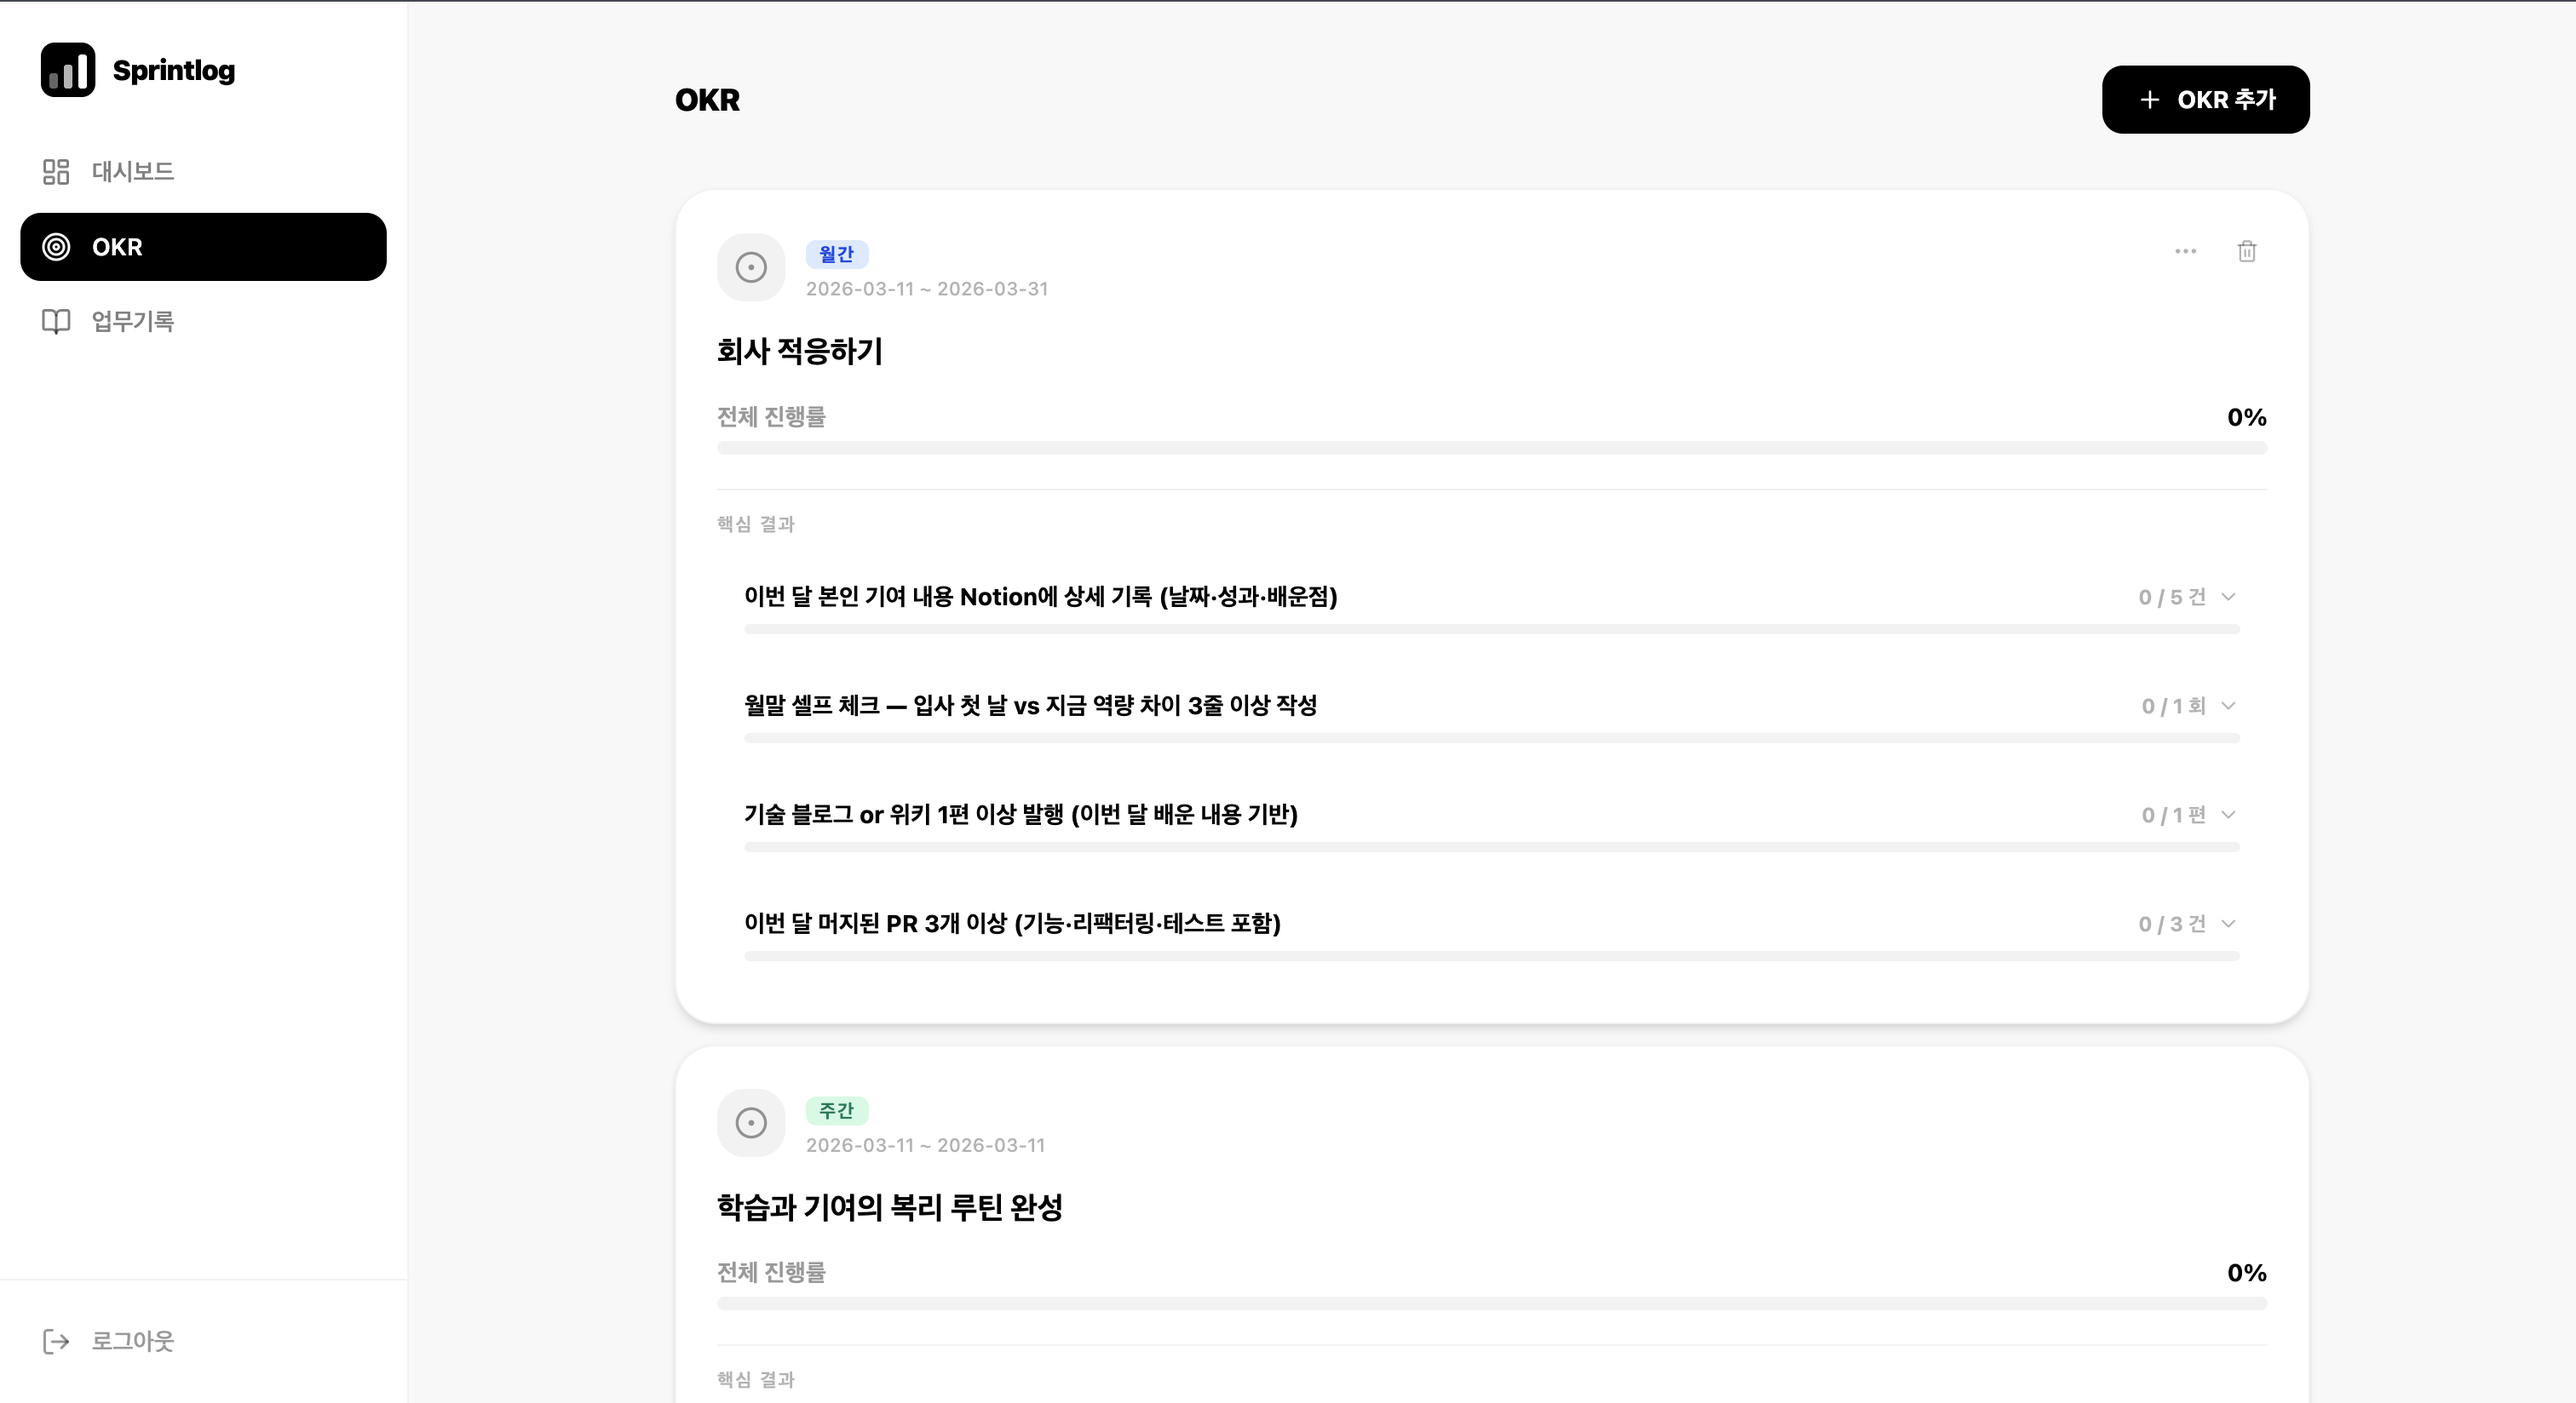
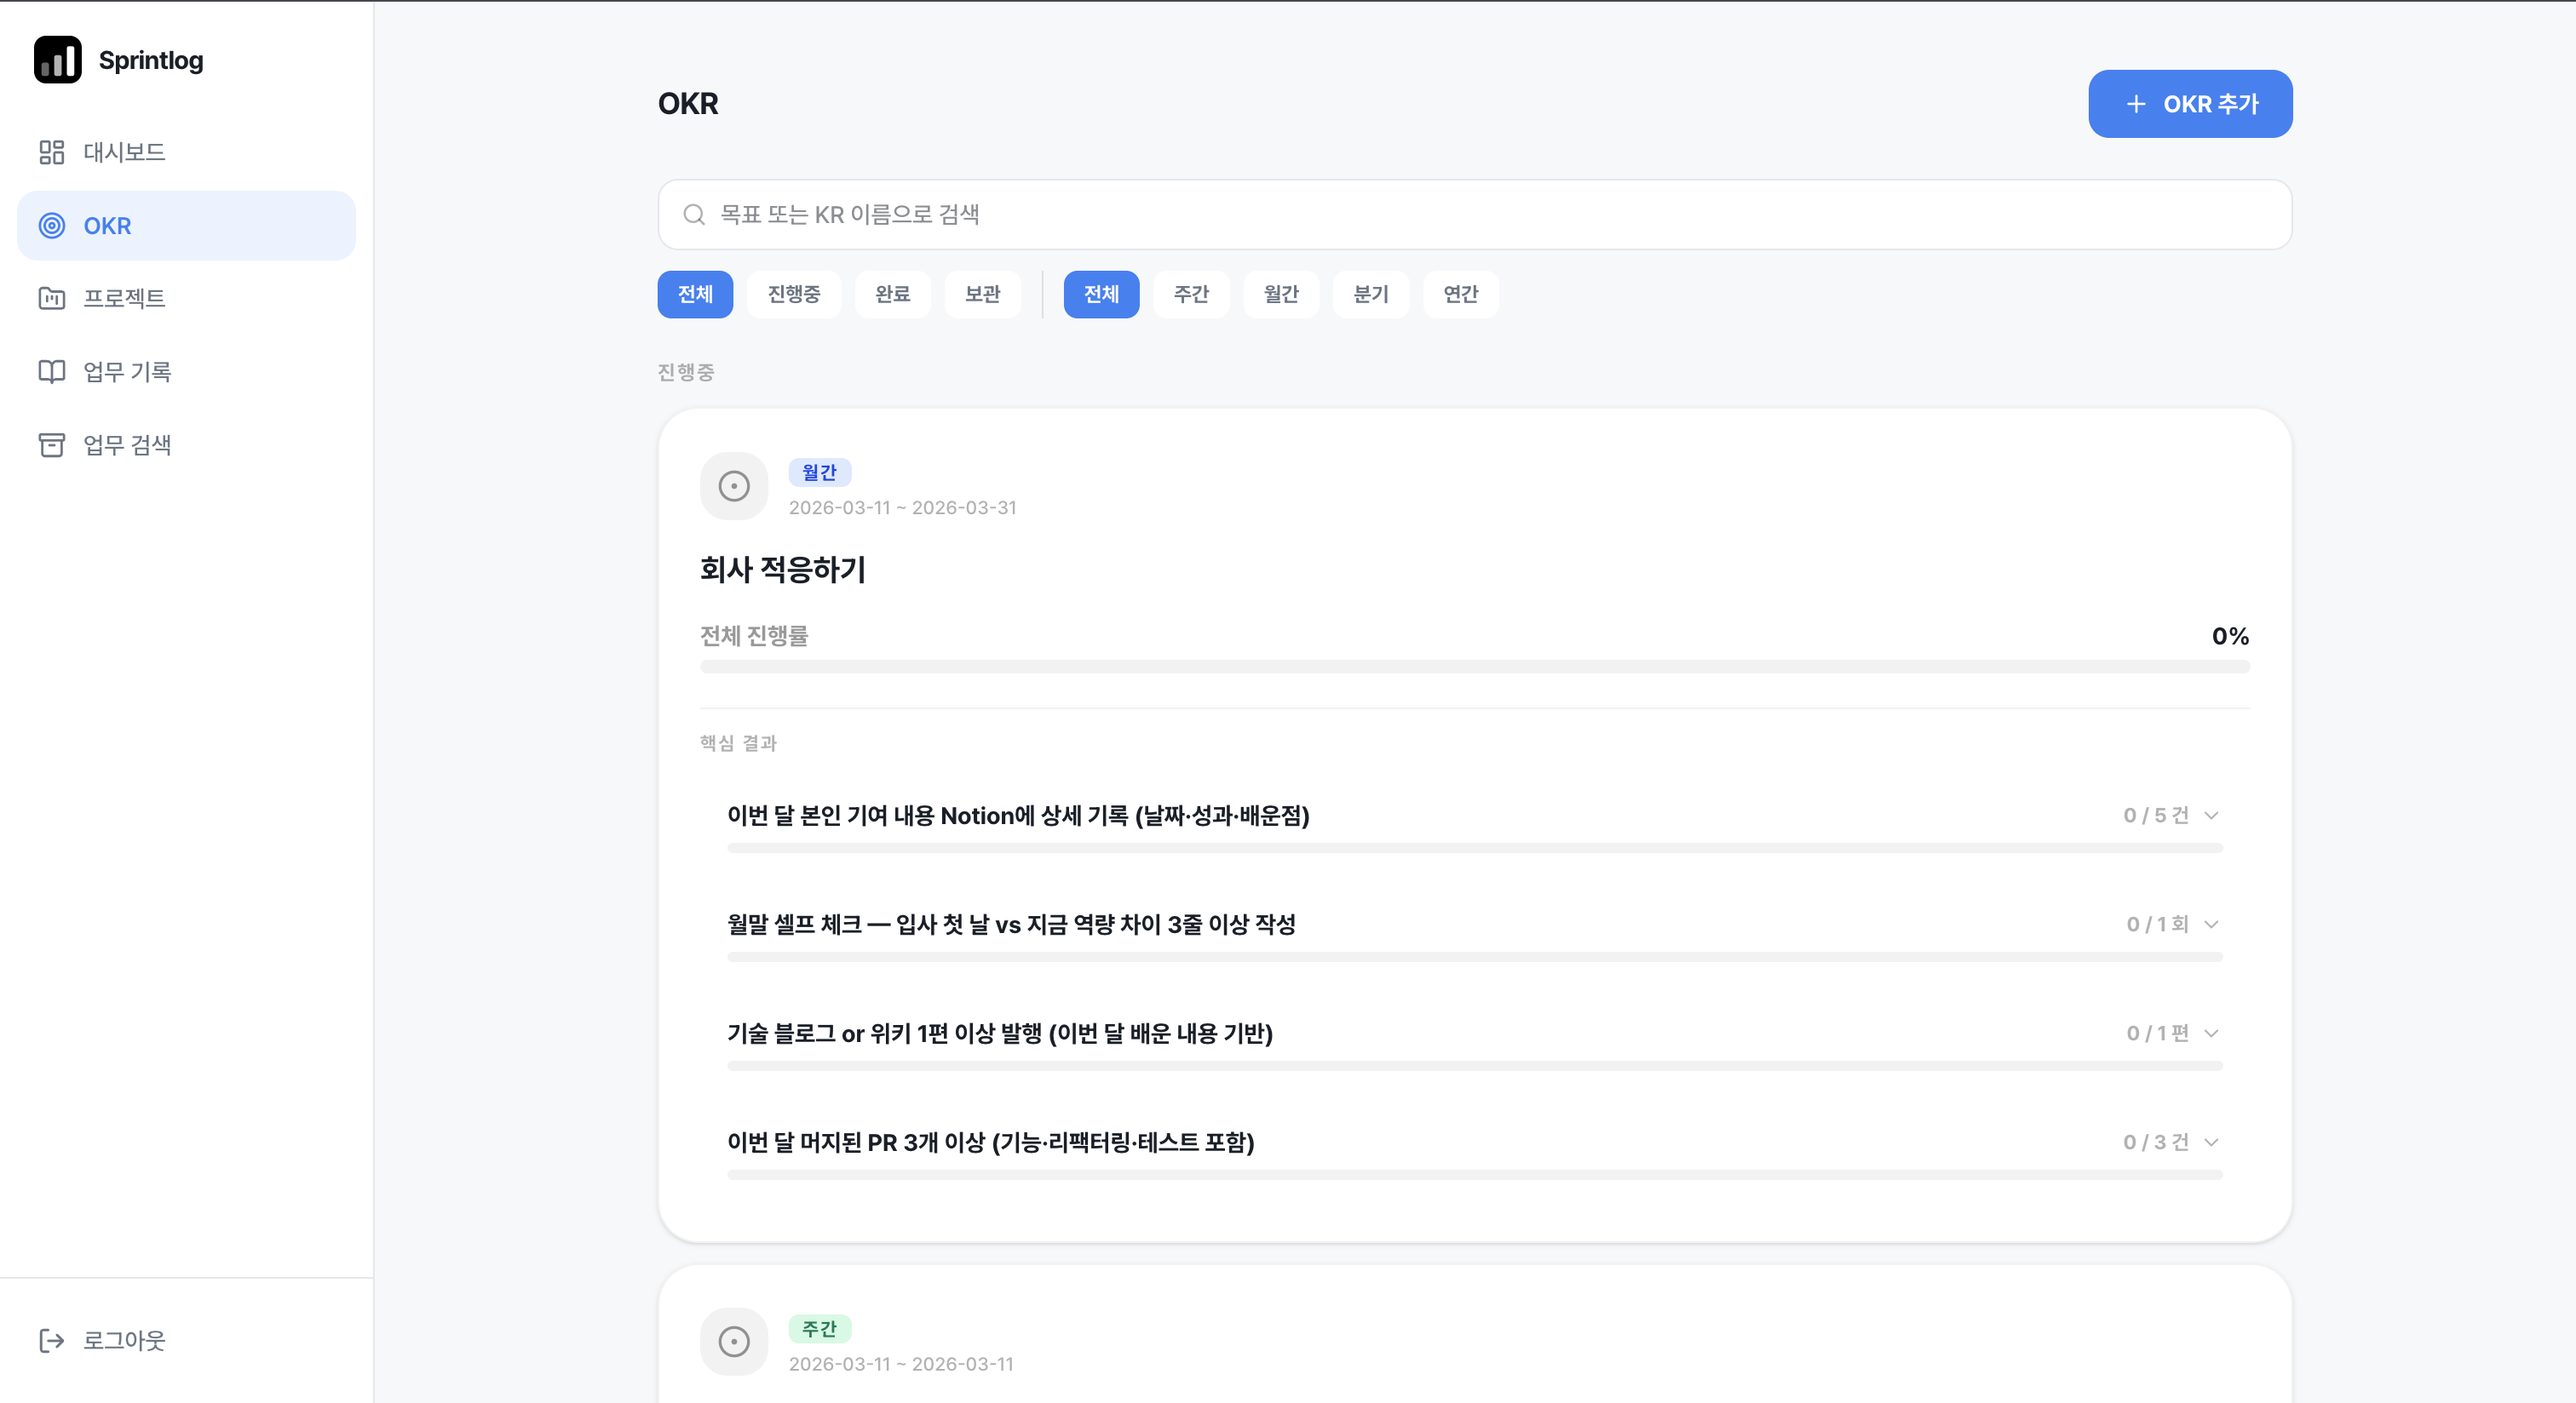
fix: 리드미 이미지 변경

diff --git a/README.md b/README.md
@@ -6,9 +6,11 @@ OKR 관리와 일일 업무기록을 한 곳에서 관리하는 서비스
 
 ### 대시보드
 
-- 총 업무기록 수, 완료된 KR, OKR 평균 진행률 통계 카드
-- 오늘/내일 할 일 목록 (오전 → 오후 순 정렬)
-- 기간별(스프린트·월간·분기·연간) OKR 통계 — 도넛 차트 + KR 진행 바
+- OKR 진행률, 완료된 KR, 할 일 완료율, 마감 임박 OKR 통계 카드
+- 마감 임박 OKR D-day 배지 + 도넛 차트 & KR 진행 바
+- 최근 이슈/장애 목록 (클릭 시 해당 업무일지 오픈)
+- 자주 함께 일한 동료 집계
+- 프로젝트별 업무일지 활동 바 차트
 - 오늘 업무기록 빠른 작성 버튼
 
 ### OKR 관리
@@ -17,19 +19,34 @@ OKR 관리와 일일 업무기록을 한 곳에서 관리하는 서비스
 - OKR당 핵심 결과(KR) 다수 등록 (목표값·현재값·단위)
 - KR 클릭 시 연결된 업무일지 목록 확장 표시
 - KR `current_value`는 연결된 업무일지 수로 자동 동기화
+- 상태 필터 (진행중·완료·보관) + 이름 검색
 
-### 업무기록
+### 프로젝트 관리
 
-- 월간 캘린더 뷰 — 기록된 날짜는 검정, 오늘은 링 표시
+- 프로젝트 생성/수정/삭제, 색상·상태·기간 설정
+- 상태(진행중·보류·완료·보관) 필터 + 이름 검색
+- 프로젝트 카드에서 연결된 업무일지 목록 확장 표시
+
+### 업무기록 캘린더
+
+- 월간 캘린더 뷰 — 기록된 날짜는 파란색, 오늘은 링 표시
 - 날짜 클릭으로 기록 작성/수정 모달 오픈
-- OKR 페이지에서 업무일지 클릭 시 해당 날짜 모달 자동 오픈
+- 업무일지 삭제 기능
 
 ### 업무일지 모달
 
-- **투두 리스트**: 오전/오후 구분, 완료 체크, 순서 관리
-- **상세 기록**: 한 일·이슈·막힌 것·설계·배운점·내일 할일·수치 변화·피드백·개선 포인트 (9개 필드)
-- **OKR 연결**: 업무일지와 KR 다대다 연결
+- **투두 리스트**: 오전/오후 구분, 완료 체크
+- **상세 기록**: 한 일·이슈·막힌 것·설계·배운점·내일 할일·수치 변화·피드백·개선 포인트 (9개 필드) + 한줄 요약 + 같이 일한 동료 태그
+- **OKR 연결**: 업무일지와 KR 다대다 연결 (검색 지원)
+- **프로젝트 연결**: 업무일지와 프로젝트 다대다 연결 (검색 지원)
 - 기록 삭제 기능 (헤더 휴지통 버튼 → 인라인 확인)
+
+### 업무 검색 (아카이브)
+
+- 전체 업무일지를 날짜·프로젝트·OKR·내용 필드 기준으로 검색/필터링
+- 검색 결과 카드 클릭 시 해당 업무일지 모달 오픈
+
+---
 
 ## 화면 미리보기
 
@@ -43,15 +60,35 @@ OKR 관리와 일일 업무기록을 한 곳에서 관리하는 서비스
 
 ### OKR 모달
 
-![OKR 모달](img/OKR_모달.png)
+![OKR 모달](img/OKR모달.png)
+
+### 프로젝트 모달
+
+![프로젝트 모달](img/프로젝트모달.png)
 
 ### 업무기록 캘린더
 
-![업무기록 캘린더](img/업무일지.png)
+![업무기록 캘린더](img/업무기록.png)
 
-### 업무일지 모달
+### 업무일지 모달 — 할 일
 
-![업무일지 모달](img/업무일지_모달.png)
+![업무일지 모달 - 할 일](img/업무일지모달-할일.png)
+
+### 업무일지 모달 — 상세 기록
+
+![업무일지 모달 - 상세 기록](img/업무일지모달-상세기록.png)
+
+### 업무일지 모달 — OKR 연결
+
+![업무일지 모달 - OKR 연결](img/업무일지모달-OKR연결.png)
+
+### 업무일지 모달 — 프로젝트 연결
+
+![업무일지 모달 - 프로젝트 연결](img/업무일지모달-프로젝트연결.png)
+
+### 업무 검색
+
+![업무 검색](img/업무검색.png)
 
 ---
 
@@ -62,6 +99,7 @@ OKR 관리와 일일 업무기록을 한 곳에서 관리하는 서비스
 | UI          | React 19, TypeScript, Tailwind CSS v4 |
 | 라우팅      | React Router v7                       |
 | 백엔드/인증 | Supabase (RLS, Auth)                  |
+| 애니메이션  | Motion (motion/react)                 |
 | 아이콘      | Lucide React                          |
 | 날짜        | date-fns                              |
 | 빌드        | Vite 7                                |
@@ -72,24 +110,29 @@ OKR 관리와 일일 업무기록을 한 곳에서 관리하는 서비스
 ```
 src/
   components/
-    Layout.tsx          # 사이드바, 모바일 헤더/하단 내비게이션
+    Layout.tsx            # 사이드바, 모바일 헤더/하단 내비게이션, 공통 컴포넌트
   features/
+    archive/
+      ArchivePage.tsx     # 업무 검색 (전체 업무일지 필터/검색)
     auth/
-      AuthPage.tsx      # 로그인 / 회원가입
+      AuthPage.tsx        # 로그인 / 회원가입
     dashboard/
-      DashboardPage.tsx # 대시보드 (통계, 투두, OKR 차트)
+      DashboardPage.tsx   # 대시보드 (통계, OKR 차트, 이슈, 동료, 프로젝트 활동)
     logs/
-      LogsPage.tsx      # 월간 캘린더 뷰
-      WorkLogModal.tsx  # 업무일지 작성/수정 모달
+      LogsPage.tsx        # 월간 캘린더 뷰
+      WorkLogModal.tsx    # 업무일지 작성/수정 모달 (투두·상세·OKR·프로젝트 탭)
     okrs/
-      OKRsPage.tsx      # OKR 목록 + KR 확장 패널
-      OKRModal.tsx      # OKR 생성/수정 모달
+      OKRsPage.tsx        # OKR 목록 + KR 확장 패널
+      OKRModal.tsx        # OKR 생성/수정 모달
+    projects/
+      ProjectsPage.tsx    # 프로젝트 목록 + 연결 업무일지 확장 패널
+      ProjectModal.tsx    # 프로젝트 생성/수정 모달
   lib/
-    api.ts              # Supabase API 함수
-    supabase.ts         # Supabase 클라이언트
-    cn.ts               # className 유틸
-  types.ts              # 공유 타입 (WorkLog, OKR, KeyResult 등)
-  App.tsx               # 라우팅 + 전역 상태
+    api.ts                # Supabase API 함수
+    supabase.ts           # Supabase 클라이언트
+    cn.ts                 # className 유틸
+  types.ts                # 공유 타입 (WorkLog, OKR, Project, KeyResult 등)
+  App.tsx                 # 라우팅 + 전역 상태
 ```
 
 ## DB 스키마
